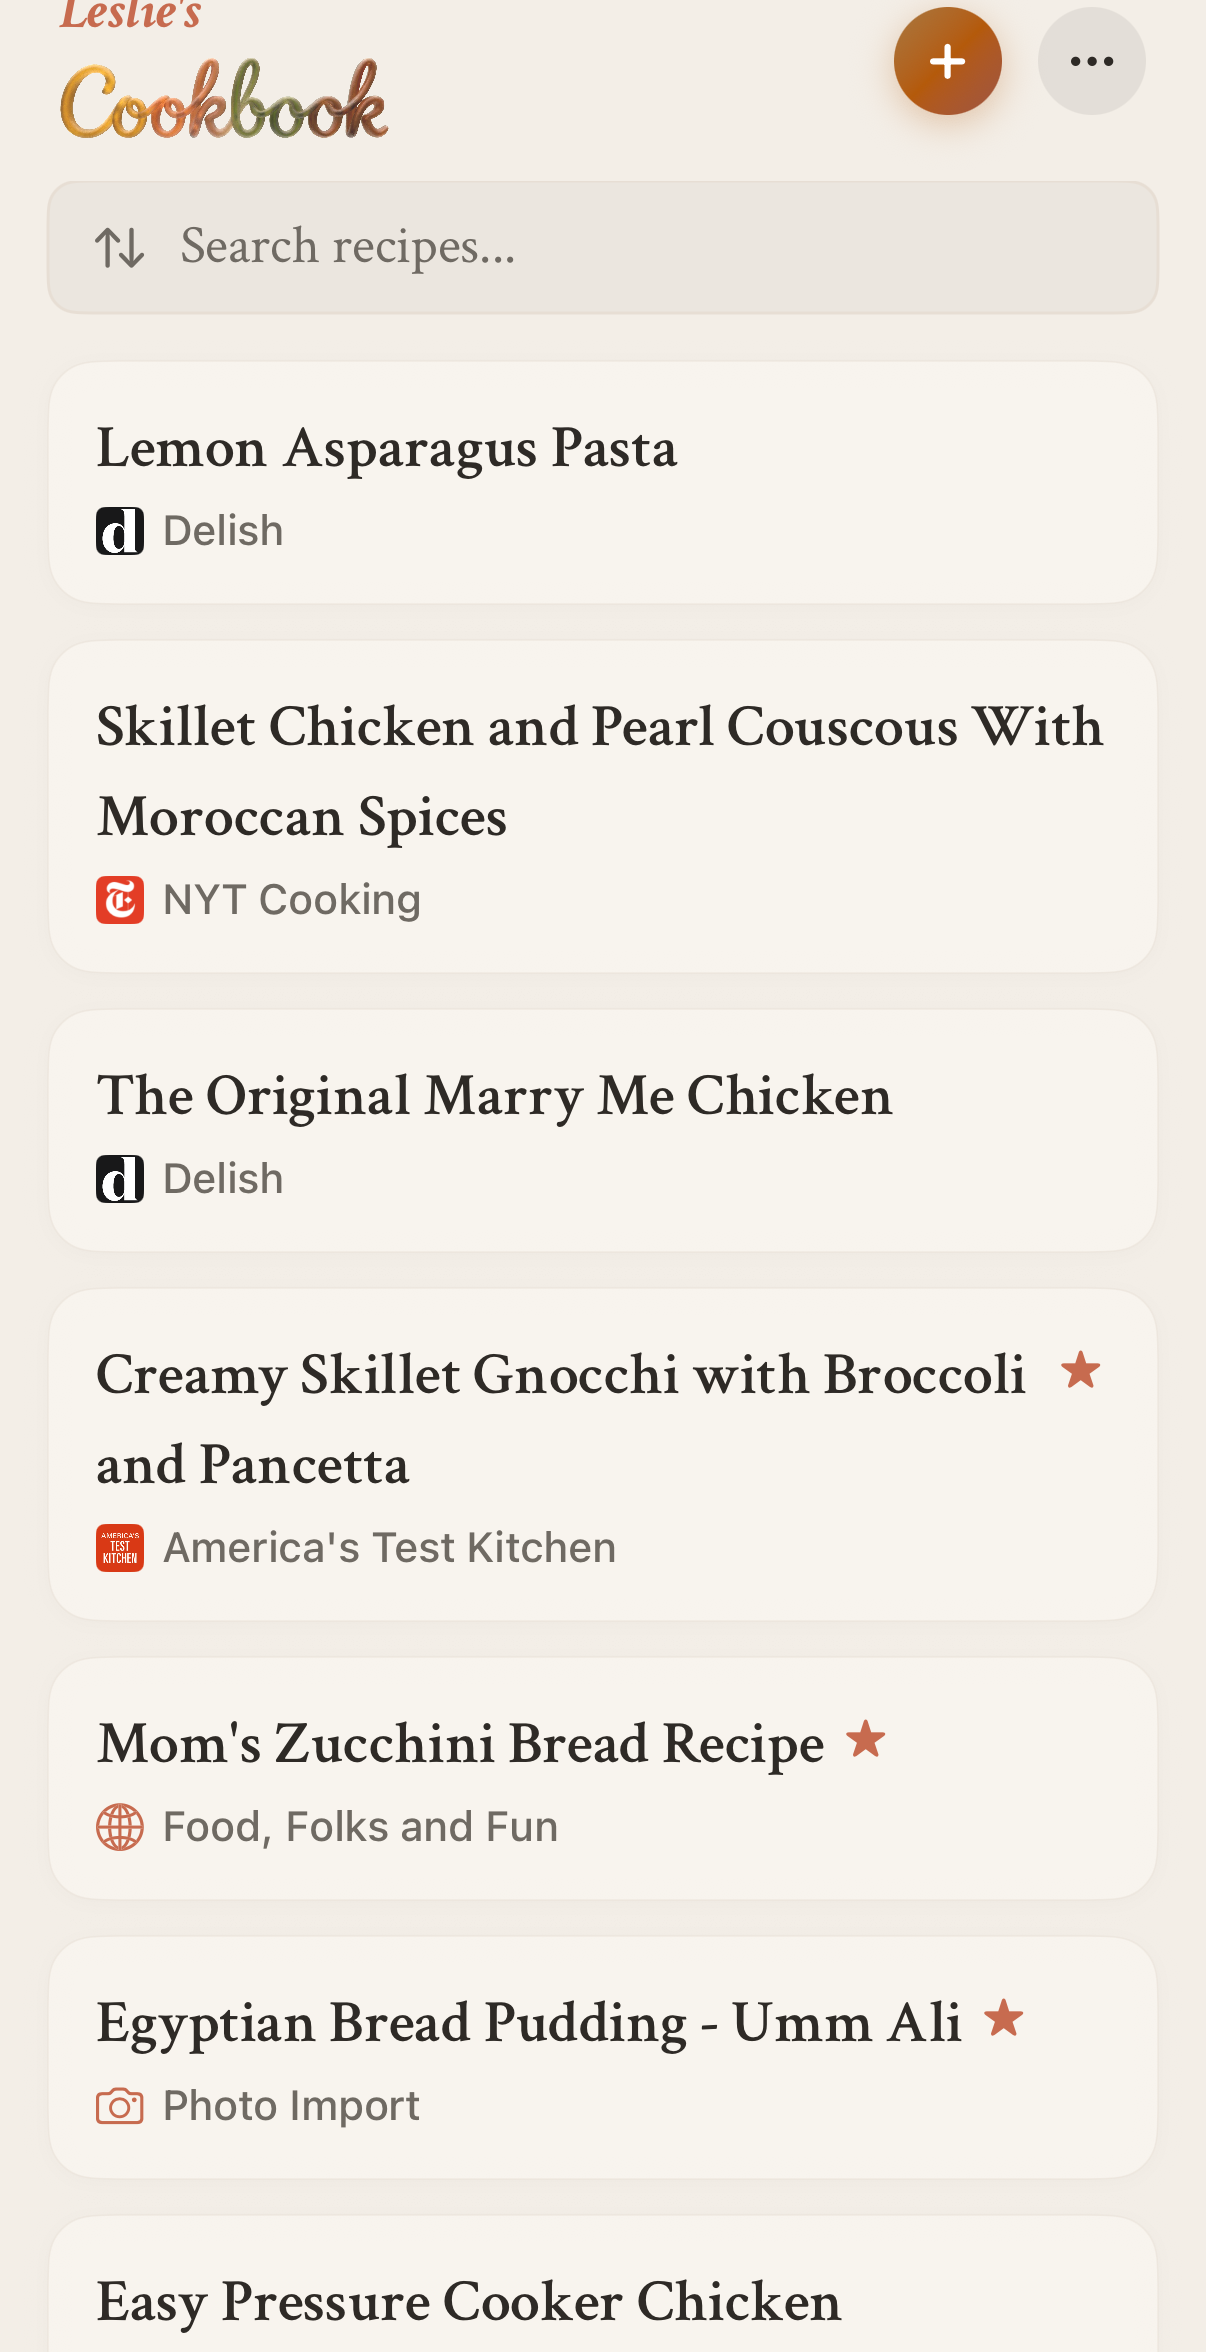
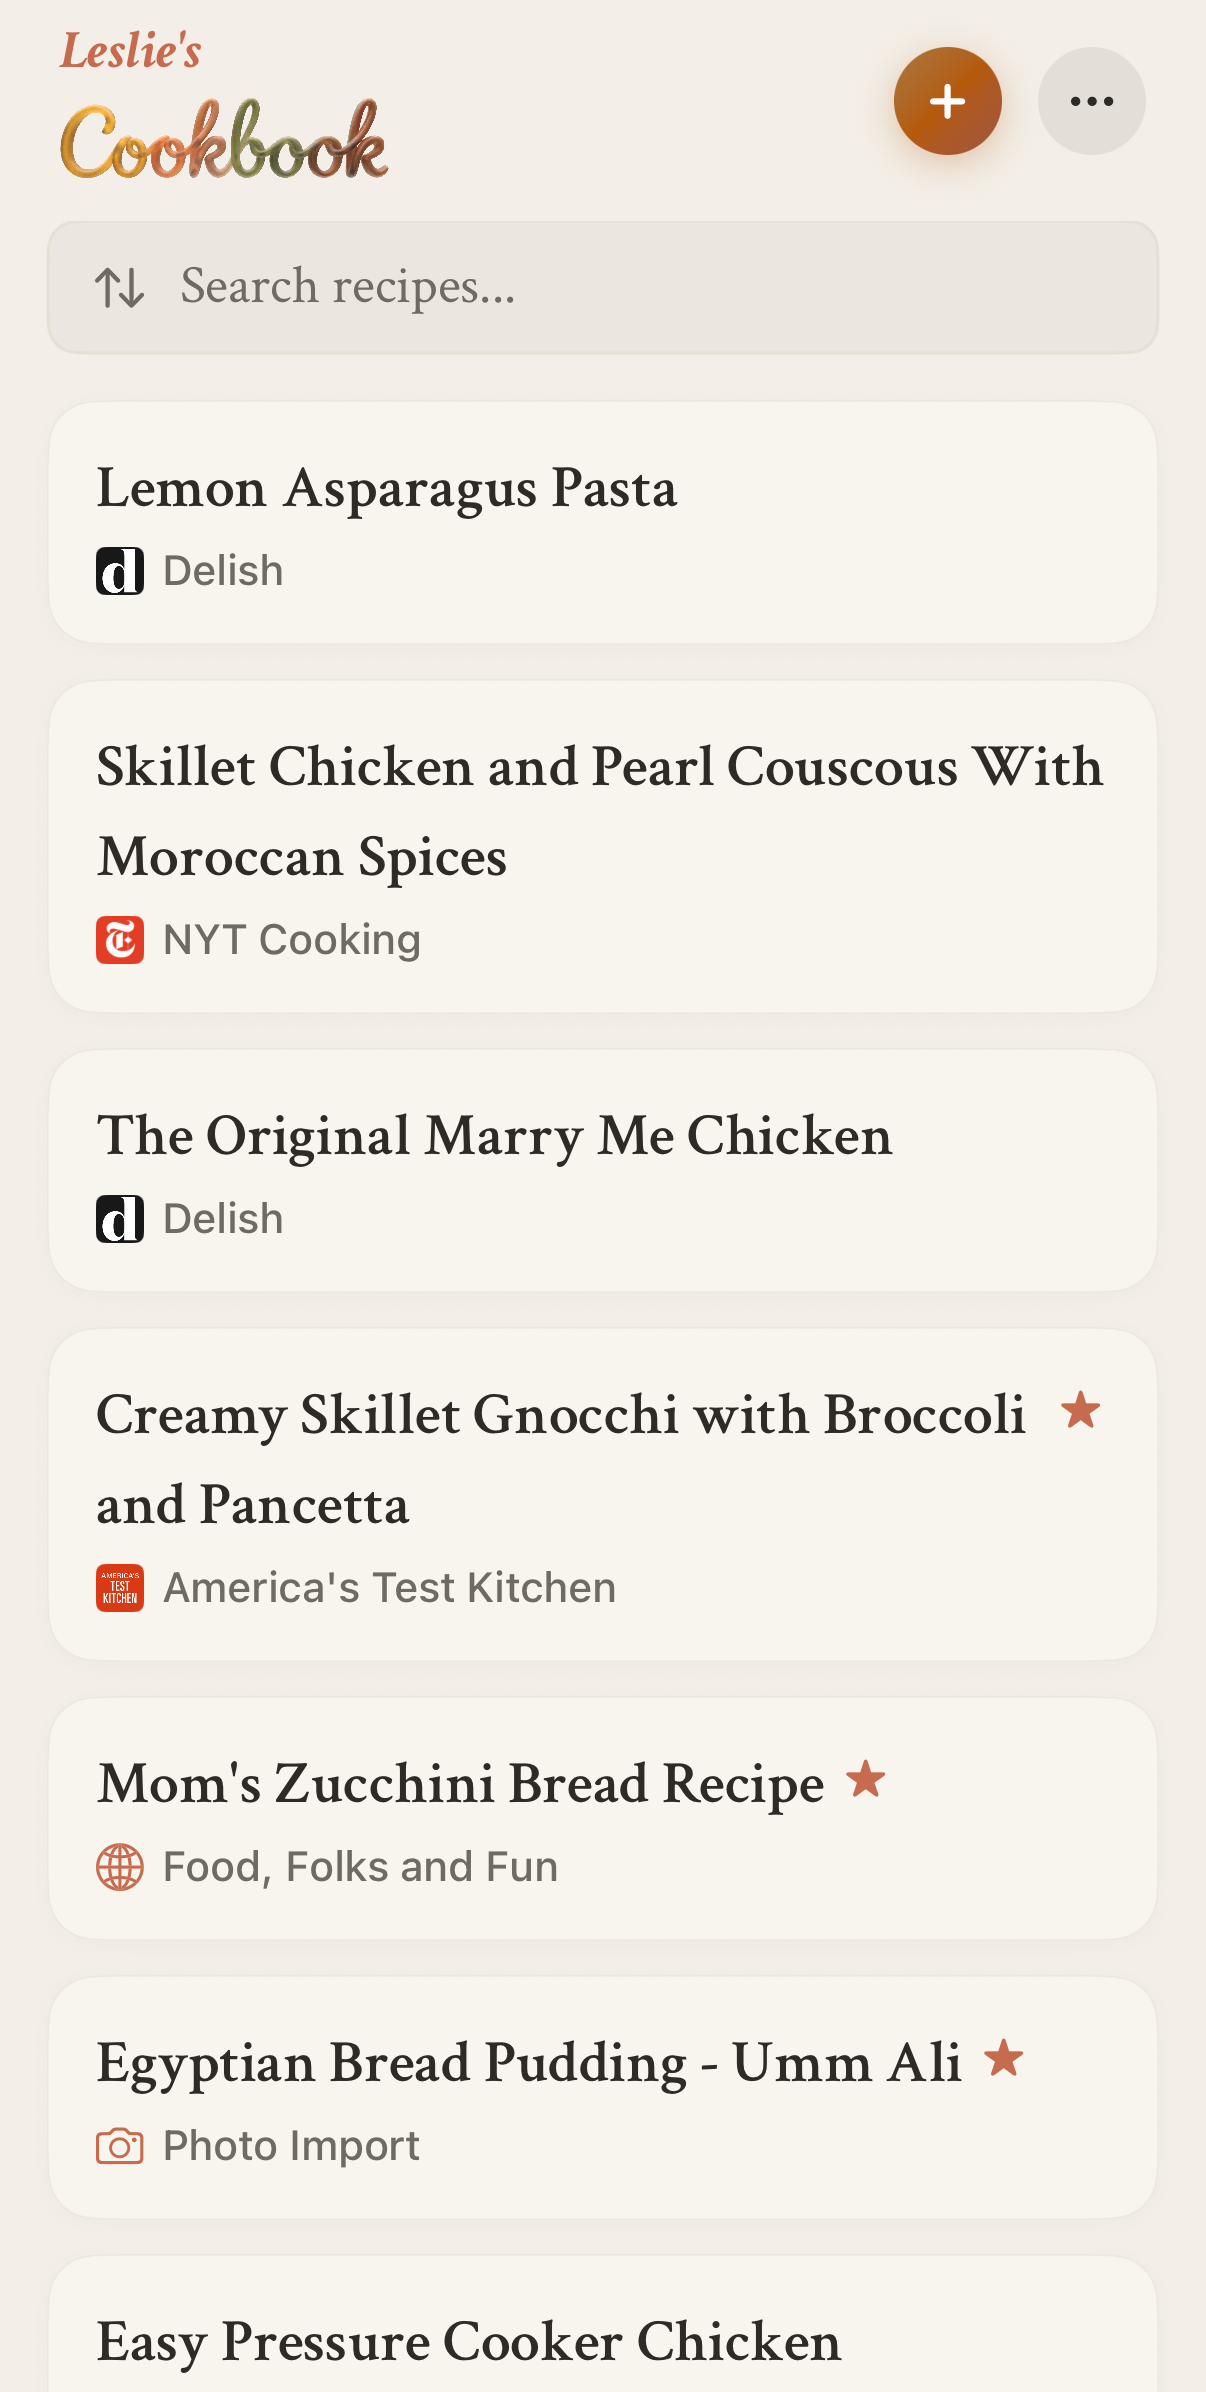
Show more of app header in screenshot crop

diff --git a/index.html b/index.html
@@ -51,7 +51,7 @@
     </div>
     <div class="hero-visual">
       <div class="iphone-frame">
-        <img src="images/app-screenshot.png?v=3" alt="RecipeBox app showing a recipe collection" class="screen-img">
+        <img src="images/app-screenshot.png?v=4" alt="RecipeBox app showing a recipe collection" class="screen-img">
       </div>
     </div>
   </section>
